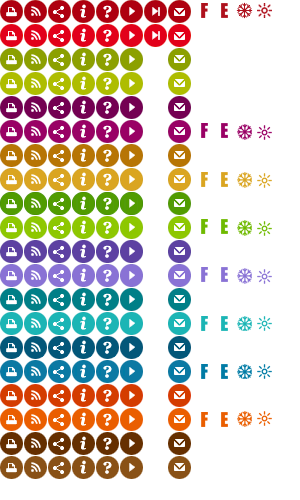
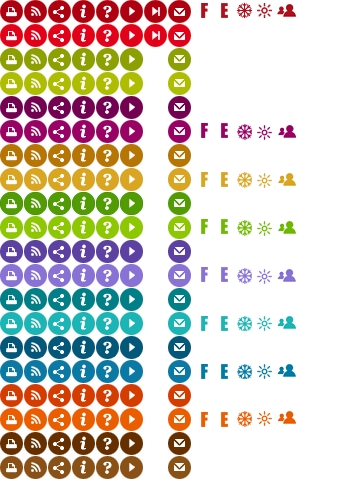
Pages Structures + icone groupes + varientes couleurs facultés

diff --git a/templates/pages/structure.html b/templates/pages/structure.html
@@ -1,0 +1,296 @@
+<!DOCTYPE html PUBLIC "-//W3C//DTD XHTML 1.0 Transitional//EN"
+        "http://www.w3.org/TR/xhtml1/DTD/xhtml1-transitional.dtd">
+<html xmlns="http://www.w3.org/1999/xhtml">
+<head>
+<meta http-equiv="Content-Type" content="text/html; charset=utf-8"/>
+<!--#include virtual="../fragments/header.sig.html" -->
+<title>LFS - Laboratory of Fictive Science: welcome</title>
+<link href="../../css/epfl.css" media="all" rel="stylesheet" type="text/css"/>
+<script type="text/javascript" src="http://www.epfl.ch/js/jquery-epfl.min.js"></script>
+<script type="text/javascript">jQuery.noConflict();</script>
+<script type="text/javascript" src="http://www.epfl.ch/js/globalnav.js"></script>
+<script type="text/javascript">
+/*
+ 
+ jQuery Tools 1.2.3 Tabs- The basics of UI design.
+
+ NO COPYRIGHTS OR LICENSES. DO WHAT YOU LIKE.
+
+ http://flowplayer.org/tools/tabs/
+
+ Since: November 2008
+ Date:    Mon Jun 7 13:43:53 2010 +0000 
+*/
+(function(c){function p(e,b,a){var d=this,l=e.add(this),h=e.find(a.tabs),i=b.jquery?b:e.children(b),j;h.length||(h=e.children());i.length||(i=e.parent().find(b));i.length||(i=c(b));c.extend(this,{click:function(f,g){var k=h.eq(f);if(typeof f=="string"&&f.replace("#","")){k=h.filter("[href*="+f.replace("#","")+"]");f=Math.max(h.index(k),0)}if(a.rotate){var n=h.length-1;if(f<0)return d.click(n,g);if(f>n)return d.click(0,g)}if(!k.length){if(j>=0)return d;f=a.initialIndex;k=h.eq(f)}if(f===j)return d;
+g=g||c.Event();g.type="onBeforeClick";l.trigger(g,[f]);if(!g.isDefaultPrevented()){o[a.effect].call(d,f,function(){g.type="onClick";l.trigger(g,[f])});j=f;h.removeClass(a.current);k.addClass(a.current);return d}},getConf:function(){return a},getTabs:function(){return h},getPanes:function(){return i},getCurrentPane:function(){return i.eq(j)},getCurrentTab:function(){return h.eq(j)},getIndex:function(){return j},next:function(){return d.click(j+1)},prev:function(){return d.click(j-1)},destroy:function(){h.unbind(a.event).removeClass(a.current);
+i.find("a[href^=#]").unbind("click.T");return d}});c.each("onBeforeClick,onClick".split(","),function(f,g){c.isFunction(a[g])&&c(d).bind(g,a[g]);d[g]=function(k){c(d).bind(g,k);return d}});if(a.history&&c.fn.history){c.tools.history.init(h);a.event="history"}h.each(function(f){c(this).bind(a.event,function(g){d.click(f,g);return g.preventDefault()})});i.find("a[href^=#]").bind("click.T",function(f){d.click(c(this).attr("href"),f)});if(location.hash)d.click(location.hash);else if(a.initialIndex===
+0||a.initialIndex>0)d.click(a.initialIndex)}c.tools=c.tools||{version:"1.2.3"};c.tools.tabs={conf:{tabs:"a",current:"current",onBeforeClick:null,onClick:null,effect:"default",initialIndex:0,event:"click",rotate:false,history:false},addEffect:function(e,b){o[e]=b}};var o={"default":function(e,b){this.getPanes().hide().eq(e).show();b.call()},fade:function(e,b){var a=this.getConf(),d=a.fadeOutSpeed,l=this.getPanes();d?l.fadeOut(d):l.hide();l.eq(e).fadeIn(a.fadeInSpeed,b)},slide:function(e,b){this.getPanes().slideUp(200);
+this.getPanes().eq(e).slideDown(400,b)},ajax:function(e,b){this.getPanes().eq(0).load(this.getTabs().eq(e).attr("href"),b)}},m;c.tools.tabs.addEffect("horizontal",function(e,b){m||(m=this.getPanes().eq(0).width());this.getCurrentPane().animate({width:0},function(){c(this).hide()});this.getPanes().eq(e).animate({width:m},function(){c(this).show();b.call()})});c.fn.tabs=function(e,b){var a=this.data("tabs");if(a){a.destroy();this.removeData("tabs")}if(c.isFunction(b))b={onBeforeClick:b};b=c.extend({},
+c.tools.tabs.conf,b);this.each(function(){a=new p(c(this),e,b);c(this).data("tabs",a)});return b.api?a:this}})(jQuery);
+</script>
+<link href="../../css/sb.css" rel="stylesheet" type="text/css" />
+<link href="../../css/structure.css" rel="stylesheet" type="text/css" />
+</head>
+<body>
+<script type="text/javascript">jQuery(document).ready(function(){
+jQuery('#accordion').tabs('#accordion div.pane', {tabs:'h3', effect:'slide', initialIndex:null});
+});
+</script>
+<!--#include virtual="../fragments/header.fr.html" -->
+<div id="main-content">
+  <ul id="breadcrumbs" title="Navigation dans l'arborescence de l'EPFL">
+    <li><a href="http://www.epfl.ch/" title="Page d'accueil de l'EPFL">EPFL</a></li>				
+    <li class="last"><a href="#">l'actualit&eacute;</a></li>
+  </ul>
+  <ul id="languages" title="Choix de la langue">
+    <li><a href="home-en.html">English</a></li>
+    <li class="current">français</li>
+  </ul>
+  <div class="clear"></div>
+  <h1>Actualit&Eacute;<acronym title="École Polytechnique Fédérale de Lausanne" class="local-color-text">EPFL</acronym></h1>
+  <div id="main-navigation" class="navigation-bar">
+    <ul class="topnav">
+      <li class="dropdown"><a href="#">Toutes les actualit&eacute;</a>
+        <ul class="menu hidden">
+          <li><a href="#">subpage</a></li>
+          <li><a href="#">subpage with a veeeeeeeerrrry long title</a></li>
+        </ul>
+      </li>
+    </ul>
+    <div class="clear"></div>
+  </div>
+  <div id="tools">
+    <div class="button print"><a href="toto.html">
+      <button class="icon"></button>
+      <span class="label">Imprimer</span></a></div>
+  </div>
+  <!--------------------------------------------------------------------------------->
+  <div id="content" class="content">
+   <h2>Structure</h2>
+   <div id="accordion"> 
+   <h3 class="current">Facult&eacute;</h3>
+   <div class="pane">
+   <div class="content-structure top">
+  <!--------------------------------------------------------------------------------->
+   <ul class="line-structure bold">
+   <li class="name">Centre interinstitutionnel de la facult&eacute;</li>
+   <li class="acronyme">CI-SB</li>
+   <li class="responsable">&nbsp;</li>
+   <li class="membres"></li>
+   </ul>
+   <ul class="line-structure">
+   <li class="name"><a href="#">Centre d'imagerie biom&eacute;dicale</a></li>
+   <li class="acronyme">CIBM</li>
+   <li class="responsable"><a href="#">Grutter Rolf</a></li>
+   <li class="membres"><div class="large_icon"></div></li>
+   </ul> 
+   <div style="clear:both"></div>
+   </div>
+ <!--------------------------------------------------------------------------------->
+  <div class="content-structure">
+  <!--------------------------------------------------------------------------------->
+   <ul class="line-structure bold">
+   <li class="name">SB-D&eacute;canat</li>
+   <li class="acronyme">SB-DEC</li>
+   <li class="responsable">Rizzo Thomas</li>
+   <li class="membres">&nbsp;</li>
+   </ul>
+   <ul class="line-structure">
+   <li class="name"><a href="#">D&eacute;canat de SB</a></li>
+   <li class="acronyme">SB-DO</li>
+   <li class="responsable"><a href="#">Rizzo Thomas</a></li>   <li class="membres"><div class="large_icon"></div></li>
+   </ul> 
+    <ul class="line-structure">
+   <li class="name"><a href="#">Conseil de facult&eacute; SB</a></li>
+   <li class="acronyme">CF-SB</li>
+   <li class="responsable"><a href="#">Rizzo Thomas</a></li>   <li class="membres"><div class="large_icon"></div></li>
+   </ul>
+   <div style="clear:both"></div>
+   </div>
+ <!--------------------------------------------------------------------------------->
+  <div class="content-structure line-bottom">
+  <!--------------------------------------------------------------------------------->
+   <ul class="line-structure bold">
+   <li class="name">SB-Servies g&eacute;n&eacute;raux</li>
+   <li class="acronyme">CI-SB</li>
+   <li class="responsable">Alt-Jenny Fran&ccedil;oise</li>
+   <li class="membres">&nbsp;</li>
+   </ul>
+   <ul class="line-structure">
+   <li class="name"><a href="#">SB-Services g&eacute;n&eacute;raux Gestion</a></li>
+   <li class="acronyme">SB-GE</li>
+   <li class="responsable"><a href="#">Alt-Jenny Fran&ccedil;oise</a></li>   <li class="membres"><div class="large_icon"></div></li>
+   </ul> 
+   <ul class="line-structure">
+   <li class="name"><a href="#">SB-Services g&eacute;n&eacute;raux Ressources humaines</a></li>
+   <li class="acronyme">SB-RH</li>
+   <li class="responsable"><a href="#">Grin Celka</a></li>   <li class="membres"><div class="large_icon"></div></li>
+   </ul>
+      <ul class="line-structure">
+   <li class="name"><a href="#">SB-Services g&eacute;n&eacute;raux Finances</a></li>
+   <li class="acronyme">SB-FI</li>
+   <li class="responsable"><a href="#">Alt-Jenny Fran&ccedil;oise</a></li>   <li class="membres"><div class="large_icon"></div></li>
+   </ul> 
+      <ul class="line-structure">
+   <li class="name"><a href="#">SB-Services g&eacute;n&eacute;raux Informatique</a></li>
+   <li class="acronyme">SB-IT</li>
+   <li class="responsable"><a href="#">Renggli Loris</a></li>   <li class="membres"><div class="large_icon"></div></li>
+   </ul> 
+      <ul class="line-structure">
+   <li class="name"><a href="#">SB-Services g&eacute;n&eacute;raux Infrastructures</a></li>
+   <li class="acronyme">SB-IN</li>
+   <li class="responsable"><a href="#">Roch Gabriel</a></li>   <li class="membres"><div class="large_icon"></div></li>
+   </ul> 
+      <ul class="line-structure">
+   <li class="name"><a href="#">SB-Services g&eacute;n&eacute;raux Securit&eacute; et sant&eacute; au travail</a></li>
+   <li class="acronyme">SB-SST</li>
+   <li class="responsable"><a href="#">Meyer Thierry</a></li>   <li class="membres"><div class="large_icon"></div></li>
+   </ul>   
+   <div style="clear:both"></div>
+   </div>
+   </div>
+ <!--------------------------------------------------------------------------------->
+  <h3 class="">Sections</h3>
+   <div class="pane">
+   <div class="content-structure top">
+  <!--------------------------------------------------------------------------------->
+   <ul class="line-structure bold">
+   <li class="name">Centre interinstitutionnel de la facult&eacute;</li>
+   <li class="acronyme">CI-SB</li>
+   <li class="responsable">&nbsp;</li>
+   <li class="membres">&nbsp;</li>
+   </ul>
+   <ul class="line-structure">
+   <li class="name"><a href="#">Centre d'imagerie biom&eacute;dicale</a></li>
+   <li class="acronyme">CIBM</li>
+   <li class="responsable"><a href="#">Grutter Rolf</a></li>
+   <li class="membres">25</li>
+   </ul> 
+   <div style="clear:both"></div>
+   </div>
+ <!--------------------------------------------------------------------------------->
+  <div class="content-structure">
+  <!--------------------------------------------------------------------------------->
+   <ul class="line-structure bold">
+   <li class="name">SB-D&eacute;canat</li>
+   <li class="acronyme">SB-DEC</li>
+   <li class="responsable">Rizzo Thomas</li>
+   <li class="membres">&nbsp;</li>
+   </ul>
+   <ul class="line-structure">
+   <li class="name"><a href="#">D&eacute;canat de SB</a></li>
+   <li class="acronyme">SB-DO</li>
+   <li class="responsable"><a href="#">Rizzo Thomas</a></li>
+   <li class="membres">&nbsp;</li>
+   </ul> 
+    <ul class="line-structure">
+   <li class="name"><a href="#">Conseil de facult&eacute; SB</a></li>
+   <li class="acronyme">CF-SB</li>
+   <li class="responsable"><a href="#">Rizzo Thomas</a></li>
+   <li class="membres">&nbsp;</li>
+   </ul> 
+   <div style="clear:both"></div>
+   </div>
+ <!--------------------------------------------------------------------------------->
+  <div class="content-structure line-bottom">
+  <!--------------------------------------------------------------------------------->
+   <ul class="line-structure bold">
+   <li class="name">SB-Servies g&eacute;n&eacute;raux</li>
+   <li class="acronyme">CI-SB</li>
+   <li class="responsable">Alt-Jenny Fran&ccedil;oise</li>
+   <li class="membres">&nbsp;</li>
+   </ul>
+   <ul class="line-structure">
+   <li class="name"><a href="#">SB-Services g&eacute;n&eacute;raux Gestion</a></li>
+   <li class="acronyme">SB-GE</li>
+   <li class="responsable"><a href="#">Alt-Jenny Fran&ccedil;oise</a></li>
+   <li class="membres">&nbsp;</li>
+   </ul> 
+   <ul class="line-structure">
+   <li class="name"><a href="#">SB-Services g&eacute;n&eacute;raux Ressources humaines</a></li>
+   <li class="acronyme">SB-RH</li>
+   <li class="responsable"><a href="#">Grin Celka</a></li>
+   <li class="membres">&nbsp;</li>
+   </ul>
+      <ul class="line-structure">
+   <li class="name"><a href="#">SB-Services g&eacute;n&eacute;raux Finances</a></li>
+   <li class="acronyme">SB-FI</li>
+   <li class="responsable"><a href="#">Alt-Jenny Fran&ccedil;oise</a></li>
+   <li class="membres">&nbsp;</li>
+   </ul> 
+      <ul class="line-structure">
+   <li class="name"><a href="#">SB-Services g&eacute;n&eacute;raux Informatique</a></li>
+   <li class="acronyme">SB-IT</li>
+   <li class="responsable"><a href="#">Renggli Loris</a></li>
+   <li class="membres">&nbsp;</li>
+   </ul> 
+      <ul class="line-structure">
+   <li class="name"><a href="#">SB-Services g&eacute;n&eacute;raux Infrastructures</a></li>
+   <li class="acronyme">SB-IN</li>
+   <li class="responsable"><a href="#">Roch Gabriel</a></li>
+   <li class="membres">&nbsp;</li>
+   </ul> 
+      <ul class="line-structure">
+   <li class="name"><a href="#">SB-Services g&eacute;n&eacute;raux Securit&eacute; et sant&eacute; au travail</a></li>
+   <li class="acronyme">SB-SST</li>
+   <li class="responsable"><a href="#">Meyer Thierry</a></li>
+   <li class="membres">&nbsp;</li>
+   </ul>   
+   <div style="clear:both"></div>
+   </div>
+ <!---------------------------------------------------------------------------------> 
+
+   </div>
+   </div>
+
+    
+  </div>
+  <!--------------------------------------------------------------------------------->
+  <div class="right-col">
+    <ul class="tree">
+      <li> <a href="#">Toutes les actualit&eacute;es</a>
+        <ul>
+          <li> <a href="#">Submenu 1</a>
+            <ul>
+              <li><a href="#">Subsubmenu I</a></li>
+              <li><a href="#">Subsubmenu II</a></li>
+              <li><a href="#">Subsubmenu III</a></li>
+            </ul>
+          </li>
+        </ul>
+      </li>
+    </ul>
+    <div class="box two-cols">
+      <h3>l&Eacute;gende</h3>
+      <div class="box-col">
+    	<ul>
+        <li><div class="legende">c</div> Cours</li>
+        <li><div class="legende">e</div> Exercice</li>
+        <li><div class="legende">p</div> Cours pratiques</li>
+        <li><div class="legende">*</div> Cours &agrave; option</li>
+        </ul>
+      </div>
+      <div class="box-col">
+      <ul>
+        <li><div class="img_legende francais"><div class="diet_icon"></div></div>Cours en Fran&ccedil;ais</li>
+        <li><div class="img_legende anglais"><div class="diet_icon"></div></div>Cours en anglais</li>
+        <li><div class="img_legende sun"><div class="little_icon"></div></div>&nbsp;Session d'&eacute;t&eacute;</li>
+        <li><div class="img_legende winter"><div class="little_icon"></div></div>&nbsp;Session d'hiver</li>
+       </ul>
+      </div>
+      <div class="clear"></div>
+    </div>
+  </div>
+  <div class="clear"></div>
+</div>
+<div id="footer">
+  <ul>
+    <li><a href="#">Plan du site</a></li>
+    <li><a href="mailto:webmaster@epfl.ch">Contact</a></li>
+    <li><a href="http://www.epfl.ch/accessibility.fr.shtml">Accessibilité</a></li>
+    <li class="copyright">&copy; 2010 EPFL tous droits réservés</li>
+    <li><a href="#top" class="hidden">Retour en haut de la page</a></li>
+  </ul>
+</div>
+</body>
+</html>

diff --git a/css/epfl.css b/css/epfl.css
@@ -128,6 +128,7 @@ acronym, abbr {color:#ae0010;}
 .button { float: left; margin-right: 20px; cursor: pointer;}
 .diet_icon {float: left; background: url(../img/icons.png) no-repeat; margin-top:2px; height: 17px; width: 9px; margin-right: 0px; border: none;}
 .little_icon {float: left; background: url(../img/icons.png) no-repeat; margin-top:2px; height: 17px; width: 17px; margin-right: 0px; border: none;}
+.large_icon {float: left; background: url(../img/icons.png) no-repeat;  height: 17px; width: 22px; margin-right: 0px; border: none;}
 .icon {float: left; background: url(../img/icons.png) no-repeat; height: 24px; width: 24px; margin-right: 4px; border: none; cursor: pointer;}
 .label {font-family: Georgia, serif; font-size: 11px; letter-spacing: 1px; font-style: italic; background: url(../img/underline.gif) repeat-x 0 14px; cursor: pointer;}
 .button .label {display: block; float: left; margin-top: 3px; }
@@ -151,6 +152,8 @@ acronym, abbr {color:#ae0010;}
 .anglais .diet_icon {background-position: -221px -3px;}
 .winter .little_icon {background-position: -237px -3px;}
 .sun .little_icon {background-position: -257px -3px;}
+.membres .large_icon {background-position: -275px -3px;}
+
 
 
 /**************************** Header definition *******************************/

diff --git a/css/structure.css b/css/structure.css
@@ -1,0 +1,42 @@
+.top{
+	border-top:1px solid #000;
+	}
+.content-structure{
+	width:100%;
+	border-bottom:1px dotted #000;
+	padding-bottom:2px;
+	padding-top:2px;
+	}
+.line-bottom{
+	border-bottom:1px solid #000;
+	}
+.content-structure ul.line-structure{
+	padding-left:15px;
+	margin:0 0;
+	padding-top:2px;
+	}
+.content-structure ul.line-structure li{
+	list-style-type:none;
+	background:none;
+	padding:0 0 ;
+}
+
+.line-structure li.name{
+	width:363px;
+	float:left;
+	}
+.line-structure li.acronyme{
+	width:70px;
+	float:left;
+}
+.line-structure li.responsable{
+	width:160px;
+	float:left;
+	}
+.line-structure li.membres{
+	width:25px;
+	float:left;
+	}
+.bold{
+	font-weight:bold;
+	}

diff --git a/css/enac.css b/css/enac.css
@@ -36,6 +36,7 @@ acronym, abbr {color:#ea5e00;}
 .anglais .diet_icon {background-position: -221px -411px;}
 .winter .little_icon {background-position: -237px -411px;}
 .sun .little_icon {background-position: -257px -411px;}
+.membres .large_icon {background-position: -275px -411px;}
 
 
 /* MR - 14.07.2010

diff --git a/css/cdh.css b/css/cdh.css
@@ -36,3 +36,4 @@ acronym, abbr {color:#daa521;}
 .anglais .diet_icon {background-position: -221px -172px;}
 .winter .little_icon {background-position: -237px -172px;}
 .sun .little_icon {background-position: -257px -172px;}
+.membres .large_icon {background-position: -275px -172px;}

diff --git a/css/cdm.css b/css/cdm.css
@@ -36,3 +36,4 @@ acronym, abbr {color:#990165;}
 .anglais .diet_icon {background-position: -221px -123px;}
 .winter .little_icon {background-position: -237px -123px;}
 .sun .little_icon {background-position: -257px -123px;}
+.membres .large_icon {background-position: -275px -123px;}

diff --git a/css/ic.css b/css/ic.css
@@ -36,3 +36,4 @@ acronym, abbr {color:#1bb5b5;}
 .anglais .diet_icon {background-position: -221px -316px;}
 .winter .little_icon {background-position: -237px -316px;}
 .sun .little_icon {background-position: -257px -316px;}
+.membres .large_icon {background-position: -275px -316px;}

diff --git a/css/sb.css b/css/sb.css
@@ -37,3 +37,4 @@ acronym, abbr {color:#007ba5;}
 .anglais .diet_icon {background-position: -221px -364px;}
 .winter .little_icon {background-position: -237px -364px;}
 .sun .little_icon {background-position: -257px -364px;}
+.membres .large_icon {background-position: -275px -364px;}

diff --git a/css/sti.css b/css/sti.css
@@ -36,3 +36,4 @@ acronym, abbr {color:#8972d5;}
 .anglais .diet_icon {background-position: -221px -267px;}
 .winter .little_icon {background-position: -237px -267px;}
 .sun .little_icon {background-position: -257px -267px;}
+.membres .large_icon {background-position: -275px -267px;}
